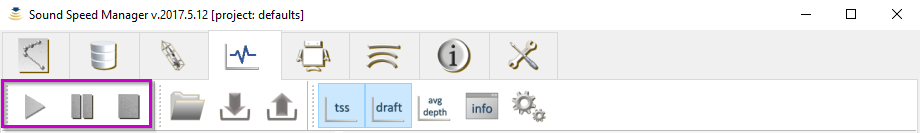
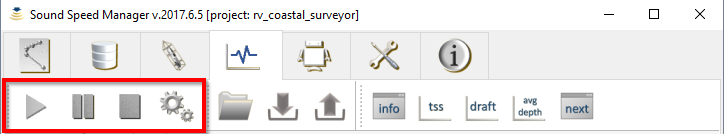
updated SDM documentation

diff --git a/docs/user_manual_how_to_use_3_data_monitor.rst b/docs/user_manual_how_to_use_3_data_monitor.rst
@@ -6,8 +6,10 @@ Survey Data Monitor
 
 .. index:: monitor
 
-The *Survey Data Monitor* is a tool to monitor the data being collected and to facilitate the surveyor
-in identifying possible issues (:numref:`data_monitor_tool_tab`).
+The *Survey Data Monitor* (:numref:`data_monitor_tool_tab`) has two main functionalities:
+
+* Monitoring the survey data being collected *(SIS required)*.
+* Estimation of the time of the next cast (always available, but SIS information are used if present).
 
 .. _data_monitor_tool_tab:
 .. figure:: _static/monitor.png
@@ -16,16 +18,32 @@ in identifying possible issues (:numref:`data_monitor_tool_tab`).
 
     Survey Data Monitor tab.
 
-The tool provides several plots and windows that can be undocked to ease their visualization while performing
-other tasks with Sound Speed Manager:
 
-* *Surface Sound Speed Map* plotter
-* *Surface Sound Speed vs. Time* plotter
-* *Transducer Depth vs. Time* plotter
-* *Average Depth vs. Time* plotter
-* *Textual Info* viewer
+In Brief
+========
 
-Each plotter has a navigation toolbar that provides basic functionalities like panning and zooming.
+The default configuration uses the *CastTime* algorithm to estimate the time suggested for the next cast.
+*CastTime* analysis is based on the two latest casts from the Sound Speed Manager database (see :ref:`ssm_database`).
+
+.. _data_monitor_plot_analysis:
+.. figure:: _static/monitor_plot_analysis.png
+    :align: center
+    :alt: CastTime analysis plot
+
+    Example of analysis plot to display the error tolerance limits (in magenta on the right pane) used by CastTime
+    to estimate the next cast time.
+
+The background color in the *Next-cast Info* viewer (:numref:`data_monitor_tool_tab`) changes identifies
+three possible estimation states (calculated in function of the maximum allowable error):
+
+* *Steady* state (blue): the casting interval is the same as in the previous estimation.
+* *Relax* state (green): the previous casting interval was increased.
+* *Panic* state (red): the previous casting interval was reduced.
+
+Independently by the current estimation state, the *Next-cast Info* viewer starts to blink when the suggested next-cast
+time was reached, and there have not been newer casts stored in the database.
+
+In the following sections, more details on how to use the *Survey Data Monitor* usage are provided.
 
 
 .. _data_monitor:
@@ -33,20 +51,65 @@ Each plotter has a navigation toolbar that provides basic functionalities like p
 Data Monitor toolbar
 ====================
 
-With SIS interaction active, the *Data Monitor* toolbar (:numref:`data_monitor_toolbar`) can be used to start, pause,
-or stop the collection and the analysis of the survey data.
+The *Data Monitor* toolbar (:numref:`data_monitor_toolbar`) is used to start, pause, or stop the collection and
+the analysis of the survey data.
+
+When SIS interaction is active, additional data (i.e., dynamic transducer draft, sound speed at transducer, and
+average depth across the sonar swath) are collected.
+
+The collected monitoring data are stored in a survey database (.mon).
 
 .. _data_monitor_toolbar:
 .. figure:: ./_static/monitor_toolbar_monitor.png
     :align: center
-    :height: 100px
     :alt: Data Monitor toolbar
     :figclass: align-center
 
-    In magenta, the *Data Monitor* toolbar controls to start, pause, or stop the data monitoring.
+    In red, the *Data Monitor* toolbar controls to start, pause, or stop the data monitoring.
 
-The collected monitoring data are stored in a database (.mon).
+The *Options* button in the *Data Monitor* toolbar (:numref:`data_monitor_toolbar`) provides access to the setup,
+organized as follows:
 
+* *General* tab (:numref:`data_monitor_option_general`).
+* *CastTime* tab (:numref:`data_monitor_option_casttime`).
+* *ForeCast* tab *(currently disabled)*.
+* *Plots* tab (:numref:`data_monitor_option_plots`).
+
+
+.. _data_monitor_option_general:
+.. figure:: ./_static/monitor_options_general.png
+    :align: center
+    :height: 400px
+    :alt: General tab of Data Monitor Options dialog
+    :figclass: align-center
+
+    In the *General* tab, you can select the estimator to be used *(ForeCast is currently disabled)*.
+    You can also change the default values adopted by the estimator in case that SIS data are not available.
+    When the *Plot analysis* flag is set, additional plots are visualized at the time of next-cast estimation.
+
+.. _data_monitor_option_casttime:
+.. figure:: ./_static/monitor_options_casttime.png
+    :align: center
+    :height: 400px
+    :alt: CastTime tab of Data Monitor Options dialog
+    :figclass: align-center
+
+    This tab contains the *CastTime*-specific settings: the initial casting interval, the possible range of variability
+    for the estimated casting interval, the angle at which to calculate the ray-tracing, and the factors used in the
+    formula used to calculate the maximum allowable error.
+
+.. _data_monitor_option_plots:
+.. figure:: ./_static/monitor_options_plots.png
+    :align: center
+    :height: 400px
+    :alt: Views tab of Data Monitor Options dialog
+    :figclass: align-center
+
+    This tab is used to change the number of samples displayed in the plotters. This value does not affect the storing
+    in the survey database (.mon).
+
+.. note:: A high number of samples selected in the *Plots* tab (:numref:`data_monitor_option_plots`) may reduce the
+    reactivity of Sound Speed Manager.
 
 .. _data_manager:
 
@@ -68,7 +131,6 @@ in two kinds of files:
 .. _data_manager_toolbar:
 .. figure:: ./_static/monitor_toolbar_manager.png
     :align: center
-    :height: 100px
     :alt: Data Manager toolbar
     :figclass: align-center
 
@@ -92,7 +154,17 @@ Data Views toolbar
 
 The *Data Views* toolbar (:numref:`data_views_toolbar`) helps the user to customize the data visualization.
 
-It is also possible to change the number of samples displayed (:numref:`data_views_option`).
+The *Survey Data Monitor* tool provides several plots and viewers that can be un-docked to ease their visualization
+while performing other tasks with Sound Speed Manager:
+
+* *General Info* viewer.
+* *Surface Sound Speed Map* plotter.
+* *Surface Sound Speed vs. Time* plotter.
+* *Transducer Depth vs. Time* plotter.
+* *Average Depth vs. Time* plotter.
+* *Next-Cast Info* viewer.
+
+Each plotter has a navigation toolbar that provides basic functionalities like panning and zooming.
 
 .. _data_views_toolbar:
 .. figure:: ./_static/monitor_toolbar_views.png
@@ -101,13 +173,16 @@ It is also possible to change the number of samples displayed (:numref:`data_vie
     :alt: Data Views toolbar
     :figclass: align-center
 
-    In magenta, the *Data Views* toolbar controls to start, pause, or stop the data monitoring.
+    In magenta, the *Data Views* toolbar controls to toggle the visualization of viewers and plotters.
 
-.. _data_views_option:
-.. figure:: ./_static/monitor_toolbar_views_options.png
+The *Next-Cast Info* viewer (:numref:`next_cast_info`) displays textual information related to the latest analysis
+performed by the next-cast estimator (e.g., *CastTime*).
+
+.. _next_cast_info:
+.. figure:: ./_static/monitor_next_cast_info.png
     :align: center
-    :height: 100px
-    :alt: Data Views Options dialog
+    :height: 400px
+    :alt: Next-Cast view
     :figclass: align-center
 
-    The dialog provides a slider to change the number of plotted samples.
+    The *Next-Cast Info* viewer provides information on the analysis performed by the *CastTime* algorithm.

diff --git a/docs/user_manual_how_to_use_1_operator_mode.rst b/docs/user_manual_how_to_use_1_operator_mode.rst
@@ -326,6 +326,7 @@ The recipients of such a transmission are configured in the configuration file (
 Given that the profile accepted by *SIS* often requires the application of a thinning algorithm,
 a method *Preview thinning* is provided to inspect the result of such an algorithm before the actual transmission.
 
+.. _ssm_database:
 
 Data storage
 ------------
